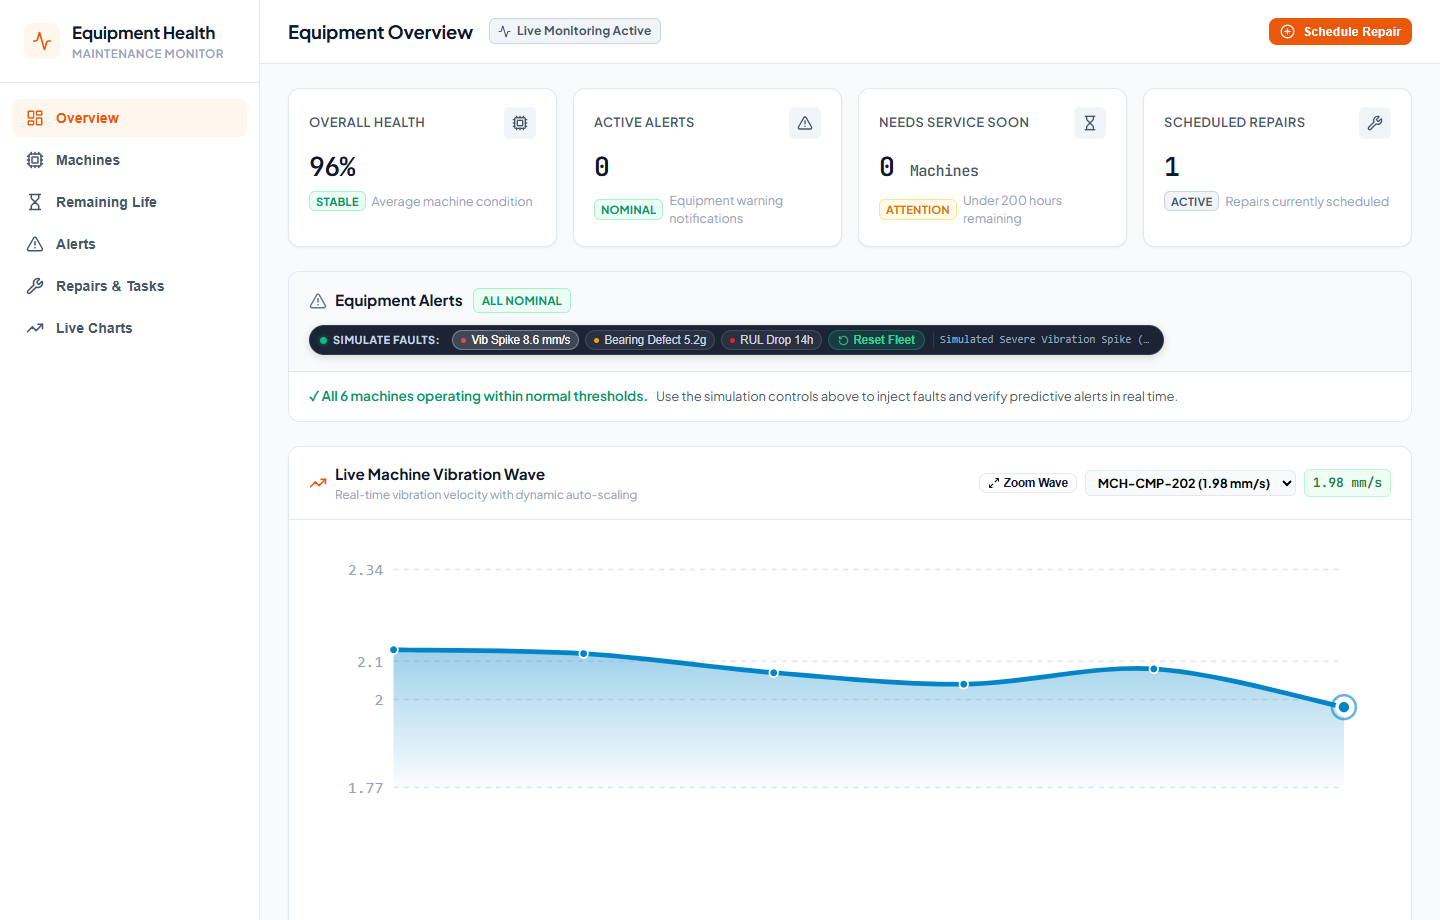
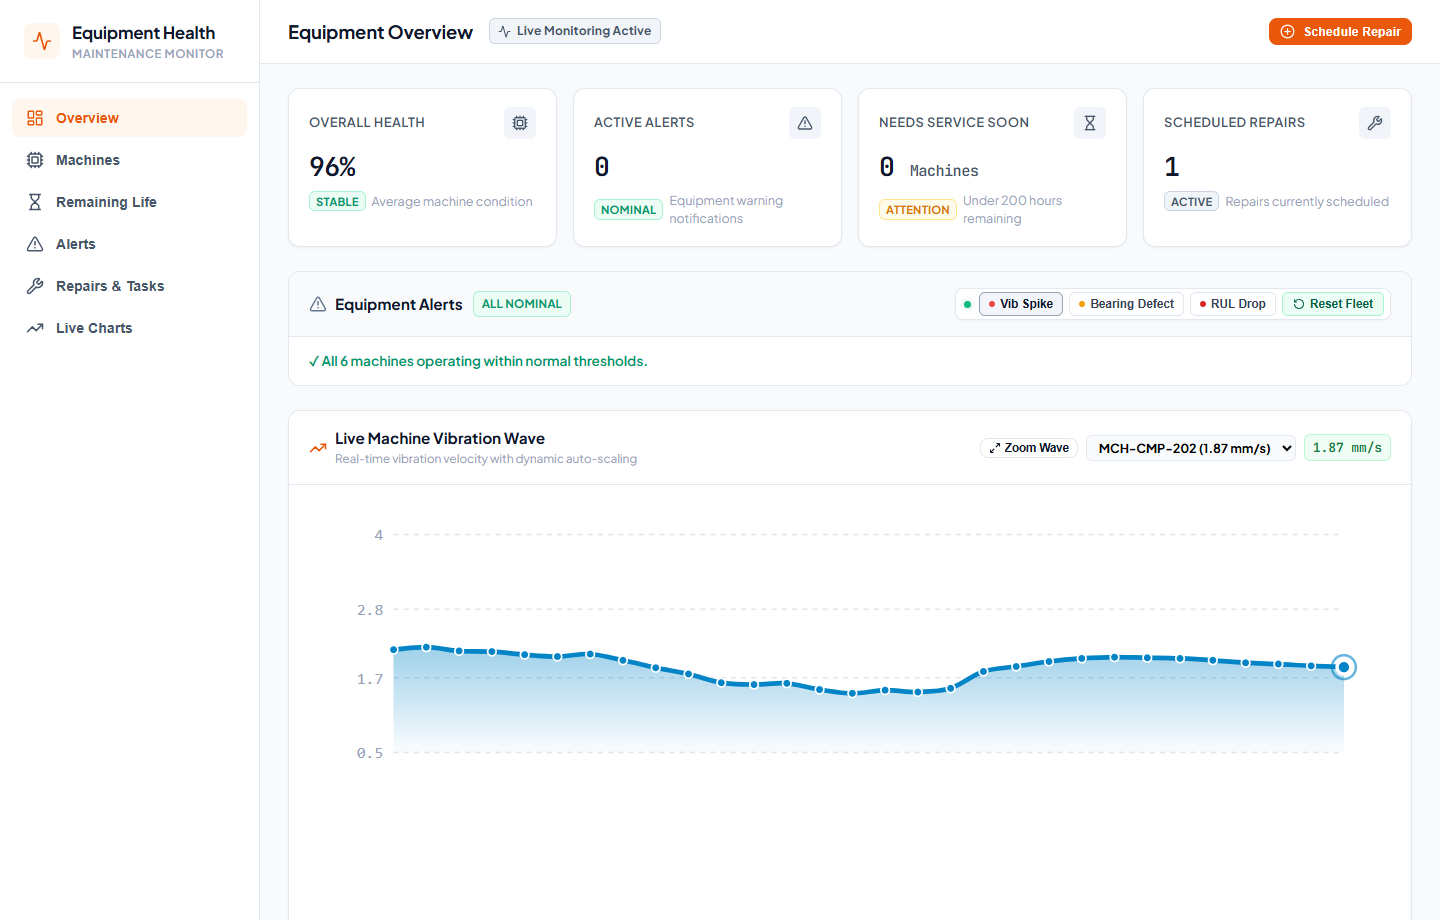
fix(ui): harmonize simulation cockpit to white theme and make vibration wave continuous

diff --git a/client/src/components/SimulationCockpit.jsx b/client/src/components/SimulationCockpit.jsx
@@ -1,34 +1,29 @@
 import React, { useState } from 'react';
 import { RotateCcw } from 'lucide-react';
 
-export const SimulationCockpit = ({ onTriggerScenario, isConnected = true, embedded = true }) => {
+export const SimulationCockpit = ({ onTriggerScenario, isConnected = true }) => {
   const [activeScenario, setActiveScenario] = useState(null);
-  const [feedbackMsg, setFeedbackMsg] = useState('Cockpit ready.');
   const [loadingAction, setLoadingAction] = useState(null);
+  const [errorMessage, setErrorMessage] = useState(null);
 
-  const handleAction = async (scenarioKey, label) => {
+  const handleAction = async (scenarioKey) => {
     try {
+      setErrorMessage(null);
       setLoadingAction(scenarioKey);
       setActiveScenario(scenarioKey);
-      setFeedbackMsg(`${label}...`);
-      
-      const res = await onTriggerScenario(scenarioKey);
-      if (res?.message) {
-        setFeedbackMsg(res.message);
-      } else {
-        setFeedbackMsg(`Applied: ${label}`);
-      }
+      await onTriggerScenario(scenarioKey);
     } catch (err) {
-      setFeedbackMsg(`Error: ${err.message}`);
+      console.error(`Simulation action error:`, err.message);
+      setErrorMessage(err.message || 'Action failed');
     } finally {
       setLoadingAction(null);
     }
   };
 
   const scenarios = [
-    { key: 'VIBRATION_SPIKE', label: 'Vib Spike 8.6 mm/s', dotColor: '#ef4444', desc: 'ISO 10816 Zone D severe vibration' },
-    { key: 'BEARING_DEFECT', label: 'Bearing Defect 5.2g', dotColor: '#f59e0b', desc: 'Outer race BPFO impact harmonics' },
-    { key: 'RUL_COLLAPSE', label: 'RUL Drop 14h', dotColor: '#dc2626', desc: 'Accelerated fatigue degradation' }
+    { key: 'VIBRATION_SPIKE', label: 'Vib Spike', dotColor: '#ef4444', desc: 'Simulate severe vibration spike (8.6 mm/s)' },
+    { key: 'BEARING_DEFECT', label: 'Bearing Defect', dotColor: '#f59e0b', desc: 'Simulate bearing outer race defect (5.2g)' },
+    { key: 'RUL_COLLAPSE', label: 'RUL Drop', dotColor: '#dc2626', desc: 'Simulate accelerated RUL degradation' }
   ];
 
   return (
@@ -42,34 +37,32 @@ export const SimulationCockpit = ({ onTriggerScenario, isConnected = true, embed
     >
       <div 
         style={{
-          background: 'rgba(15, 23, 42, 0.95)',
-          border: '1px solid rgba(255, 255, 255, 0.1)',
-          borderRadius: 20,
-          padding: '4px 10px',
-          color: '#f1f5f9',
+          background: '#ffffff',
+          border: '1px solid var(--border-color)',
+          borderRadius: 8,
+          padding: '3px 6px',
           display: 'flex',
           alignItems: 'center',
-          gap: 8,
-          boxShadow: '0 2px 8px rgba(0, 0, 0, 0.15)',
+          gap: 6,
+          boxShadow: '0 1px 2px rgba(0, 0, 0, 0.04)',
           flexWrap: 'wrap'
         }}
       >
-        <div style={{ display: 'flex', alignItems: 'center', gap: 6, paddingRight: 4 }}>
-          <span 
-            style={{ 
-              width: 7, 
-              height: 7, 
-              borderRadius: '50%', 
-              background: isConnected ? '#10b981' : '#f59e0b',
-              boxShadow: isConnected ? '0 0 6px rgba(16, 185, 129, 0.8)' : 'none'
-            }} 
-          />
-          <span style={{ fontSize: '0.68rem', fontWeight: 700, letterSpacing: '0.05em', color: '#cbd5e1' }}>
-            SIMULATE FAULTS:
-          </span>
-        </div>
+        {/* Status Dot */}
+        <span 
+          style={{ 
+            width: 7, 
+            height: 7, 
+            borderRadius: '50%', 
+            background: isConnected ? '#10b981' : '#f59e0b',
+            boxShadow: isConnected ? '0 0 6px rgba(16, 185, 129, 0.5)' : 'none',
+            marginLeft: 2,
+            marginRight: 2
+          }} 
+          title={isConnected ? 'Simulator Connected' : 'Connecting to Simulator...'}
+        />
 
-        {/* Quick Trigger Pills */}
+        {/* Action Buttons */}
         <div style={{ display: 'flex', alignItems: 'center', gap: 6 }}>
           {scenarios.map((sc) => {
             const isLoading = loadingAction === sc.key;
@@ -78,17 +71,17 @@ export const SimulationCockpit = ({ onTriggerScenario, isConnected = true, embed
             return (
               <button
                 key={sc.key}
-                onClick={() => handleAction(sc.key, sc.label)}
+                onClick={() => handleAction(sc.key)}
                 disabled={!!loadingAction}
                 title={sc.desc}
                 style={{
-                  background: isActive ? 'rgba(255, 255, 255, 0.16)' : 'rgba(255, 255, 255, 0.06)',
-                  border: `1px solid ${isActive ? 'rgba(255, 255, 255, 0.3)' : 'rgba(255, 255, 255, 0.12)'}`,
-                  borderRadius: 12,
-                  padding: '3px 8px',
-                  color: isActive ? '#ffffff' : '#cbd5e1',
-                  fontSize: '0.72rem',
-                  fontWeight: 500,
+                  background: isActive ? '#f1f5f9' : '#ffffff',
+                  border: `1px solid ${isActive ? '#94a3b8' : 'var(--border-color)'}`,
+                  borderRadius: 6,
+                  padding: '4px 9px',
+                  color: isActive ? '#0f172a' : '#334155',
+                  fontSize: '0.74rem',
+                  fontWeight: 600,
                   cursor: loadingAction ? 'not-allowed' : 'pointer',
                   display: 'flex',
                   alignItems: 'center',
@@ -98,8 +91,8 @@ export const SimulationCockpit = ({ onTriggerScenario, isConnected = true, embed
               >
                 <span 
                   style={{ 
-                    width: 5, 
-                    height: 5, 
+                    width: 6, 
+                    height: 6, 
                     borderRadius: '50%', 
                     background: sc.dotColor 
                   }} 
@@ -109,49 +102,35 @@ export const SimulationCockpit = ({ onTriggerScenario, isConnected = true, embed
             );
           })}
 
-          {/* Reset Button */}
+          {/* Reset Fleet Button */}
           <button
-            onClick={() => handleAction('RESET', 'Reset Fleet')}
+            onClick={() => handleAction('RESET')}
             disabled={!!loadingAction}
-            title="Restore all machines to nominal healthy baseline (RUL ≥ 1,200h, health ≥ 95%)"
+            title="Restore all machines to nominal healthy baseline"
             style={{
-              background: 'rgba(16, 185, 129, 0.15)',
-              border: '1px solid rgba(16, 185, 129, 0.35)',
-              borderRadius: 12,
-              padding: '3px 9px',
-              color: '#34d399',
-              fontSize: '0.72rem',
+              background: '#ecfdf5',
+              border: '1px solid #a7f3d0',
+              borderRadius: 6,
+              padding: '4px 10px',
+              color: '#065f46',
+              fontSize: '0.74rem',
               fontWeight: 600,
               cursor: loadingAction ? 'not-allowed' : 'pointer',
               display: 'flex',
               alignItems: 'center',
-              gap: 4,
+              gap: 5,
               transition: 'all 0.15s ease'
             }}
           >
-            <RotateCcw size={11} />
+            <RotateCcw size={12} />
             <span>Reset Fleet</span>
           </button>
         </div>
 
-        {/* Status Ticker */}
-        {feedbackMsg && (
-          <div 
-            style={{ 
-              maxWidth: 220, 
-              overflow: 'hidden', 
-              textOverflow: 'ellipsis', 
-              whiteSpace: 'nowrap',
-              fontSize: '0.68rem',
-              color: '#94a3b8',
-              fontFamily: 'monospace',
-              paddingLeft: 6,
-              borderLeft: '1px solid rgba(255, 255, 255, 0.1)'
-            }}
-            title={feedbackMsg}
-          >
-            {feedbackMsg}
-          </div>
+        {errorMessage && (
+          <span style={{ fontSize: '0.7rem', color: '#dc2626', fontWeight: 600, paddingLeft: 4 }}>
+            {errorMessage}
+          </span>
         )}
       </div>
     </aside>

diff --git a/server/services/simulator.js b/server/services/simulator.js
@@ -30,32 +30,40 @@ const startTelemetrySimulator = (io) => {
           const seed = (m.machineId && typeof m.machineId === 'string')
             ? m.machineId.charCodeAt(m.machineId.length - 1)
             : 42;
-          const wave = Math.sin(simTick + seed);
-          const noise = (Math.random() - 0.5);
+          // Harmonic vibration cycle (fundamental + 2nd harmonic for realistic continuous mechanical wave)
+          const fundamental = Math.sin(simTick + seed);
+          const harmonic = Math.sin(2.1 * simTick + seed * 1.5) * 0.22;
+          const continuousWave = (fundamental * 0.78 + harmonic);
+          const microNoise = (Math.random() - 0.5) * 0.02; // Micro sensor flutter
 
-          let newVib = m.currentVibrationRms;
-          let newTemp = m.currentTempC;
-          let newPeakG = m.currentBearingPeakG;
-          let newRpm = 1800 + Math.round(wave * 25 + noise * 10);
-          let newAmps = 18.5 + +(wave * 1.2 + noise * 0.4).toFixed(1);
-          let newDb = 58 + Math.round(wave * 3 + noise * 2);
+          let newRpm = 1800 + Math.round(continuousWave * 15);
+          let newAmps = +(18.5 + continuousWave * 0.6).toFixed(1);
+          let newDb = 58 + Math.round(continuousWave * 2);
+          let newPeakG;
+          let newTemp;
+          let newVib;
 
           if (m.status === 'HEALTHY') {
-            newVib = +(1.8 + wave * 0.35 + noise * 0.15).toFixed(2);
+            newVib = +(1.8 + continuousWave * 0.28 + microNoise).toFixed(2);
             if (newVib < 0.8) newVib = 0.8;
-            newPeakG = +(0.85 + wave * 0.18 + noise * 0.08).toFixed(2);
-            newTemp = +(52.0 + wave * 1.5 + noise * 0.5).toFixed(1);
+            newPeakG = +(0.85 + continuousWave * 0.12).toFixed(2);
+            newTemp = +(52.0 + continuousWave * 1.0).toFixed(1);
           } else if (m.status === 'EARLY_DEGRADATION') {
-            newVib = +(3.8 + wave * 0.5 + noise * 0.25).toFixed(2);
-            newPeakG = +(2.1 + wave * 0.3 + noise * 0.1).toFixed(2);
-            newTemp = +(68.0 + wave * 2.0 + noise * 0.8).toFixed(1);
-            newDb = 72 + Math.round(wave * 4);
+            newVib = +(3.7 + continuousWave * 0.35 + microNoise).toFixed(2);
+            newPeakG = +(2.1 + continuousWave * 0.20).toFixed(2);
+            newTemp = +(68.0 + continuousWave * 1.5).toFixed(1);
+            newDb = 72 + Math.round(continuousWave * 3);
+          } else if (m.status === 'CRITICAL_SHUTDOWN') {
+            newVib = +(8.4 + continuousWave * 0.45 + microNoise).toFixed(2);
+            newPeakG = +(4.2 + continuousWave * 0.30).toFixed(2);
+            newTemp = +(83.0 + continuousWave * 1.8).toFixed(1);
+            newDb = 92 + Math.round(continuousWave * 4);
           } else {
-            newVib = +(m.currentVibrationRms + wave * 0.4 + noise * 0.2).toFixed(2);
-            if (newVib < 5.5) newVib = 5.5;
-            newPeakG = +(m.currentBearingPeakG + wave * 0.2 + noise * 0.1).toFixed(2);
-            newTemp = +(m.currentTempC + wave * 1.0 + noise * 0.3).toFixed(1);
-            newDb = 88 + Math.round(wave * 5);
+            // SEVERE_ANOMALY
+            newVib = +(6.2 + continuousWave * 0.40 + microNoise).toFixed(2);
+            newPeakG = +(3.0 + continuousWave * 0.25).toFixed(2);
+            newTemp = +(76.0 + continuousWave * 1.5).toFixed(1);
+            newDb = 86 + Math.round(continuousWave * 4);
           }
 
           let status = m.status;

diff --git a/client/src/components/VibrationWaveChart.jsx b/client/src/components/VibrationWaveChart.jsx
@@ -26,13 +26,13 @@ export const VibrationWaveChart = ({
         if (res.success && isMounted && Array.isArray(res.data) && res.data.length > 0) {
           setTelemetryHistory(res.data);
         } else if (isMounted) {
-          // If no history exists yet, generate mock seed baseline
-          const mockSeed = Array.from({ length: 20 }, (_, i) => ({
-            timestamp: new Date(Date.now() - (20 - i) * 3000).toISOString(),
+          // If no history exists yet, generate clean continuous baseline
+          const mockSeed = Array.from({ length: 25 }, (_, i) => ({
+            timestamp: new Date(Date.now() - (25 - i) * 1000).toISOString(),
             machineId: targetMachineId,
-            vibrationRms: +(1.7 + Math.sin(i * 0.4) * 0.35 + (Math.random() - 0.5) * 0.15).toFixed(2),
+            vibrationRms: +(1.8 + Math.sin(i * 0.3) * 0.28).toFixed(2),
             tempC: 52.0,
-            bearingPeakG: 0.8
+            bearingPeakG: 0.85
           }));
           setTelemetryHistory(mockSeed);
         }
@@ -47,12 +47,21 @@ export const VibrationWaveChart = ({
     return () => { isMounted = false; };
   }, [targetMachineId]);
 
-  // Append live telemetry when machine updates via WebSocket or stream
+  // Smoothly append new live readings to maintain continuous wave without shrinking buffer
   useEffect(() => {
-    if (Array.isArray(liveStream) && liveStream.length > 0) {
-      setTelemetryHistory(liveStream);
-    }
-  }, [liveStream]);
+    if (!Array.isArray(liveStream) || liveStream.length === 0) return;
+    const newest = liveStream[liveStream.length - 1];
+    if (!newest || newest.machineId !== targetMachineId) return;
+
+    setTelemetryHistory(prev => {
+      if (!prev || prev.length === 0) return [newest];
+      const last = prev[prev.length - 1];
+      if (last && ((last._id != null && last._id === newest._id) || last.timestamp === newest.timestamp)) {
+        return prev;
+      }
+      return [...prev.slice(-29), newest];
+    });
+  }, [liveStream, targetMachineId]);
 
   // Chart dimensions matching Hydrogen project exactly
   const width = 640;
@@ -61,20 +70,21 @@ export const VibrationWaveChart = ({
   const innerWidth = width - padding.left - padding.right;
   const innerHeight = height - padding.top - padding.bottom;
 
-  // Compute Adaptive Scales (Auto-Zoom prevents flat lines)
+  // Compute Stable Scales (Stable rounded steps prevent jarring scale jumps)
   const vibrations = telemetryHistory.map(d => d.vibrationRms ?? 1.8);
   const dataMin = vibrations.length > 0 ? Math.min(...vibrations) : (targetMachine?.currentVibrationRms || 1.8);
   const dataMax = vibrations.length > 0 ? Math.max(...vibrations) : (targetMachine?.currentVibrationRms || 1.8);
 
   let minV, maxV;
   if (zoomMode === 'auto') {
-    const span = Math.max(0.6, dataMax - dataMin);
-    minV = Math.max(0, +(dataMin - span * 0.35).toFixed(2));
-    maxV = +(dataMax + span * 0.35).toFixed(2);
+    const targetMin = Math.max(0, dataMin - 0.6);
+    const targetMax = Math.max(targetMin + 3.0, dataMax + 0.6);
+    minV = Math.floor(targetMin * 2) / 2;
+    maxV = Math.ceil(targetMax * 2) / 2;
   } else {
     // Full scale 0 to 10 mm/s
     minV = 0;
-    maxV = Math.max(8.0, Math.ceil(dataMax + 1.0));
+    maxV = Math.max(10.0, Math.ceil(dataMax + 1.0));
   }
 
   if (maxV <= minV) maxV = minV + 2;

diff --git a/client/src/pages/FleetOverview.jsx b/client/src/pages/FleetOverview.jsx
@@ -182,7 +182,6 @@ export const FleetOverview = ({
           }}>
             <div style={{ display: 'flex', alignItems: 'center', gap: 8 }}>
               <span style={{ color: '#059669', fontWeight: 600 }}>✓ All {machines.length} machines operating within normal thresholds.</span>
-              <span style={{ fontSize: '0.8rem' }}>Use the simulation controls above to inject faults and verify predictive alerts in real time.</span>
             </div>
           </div>
         )}
